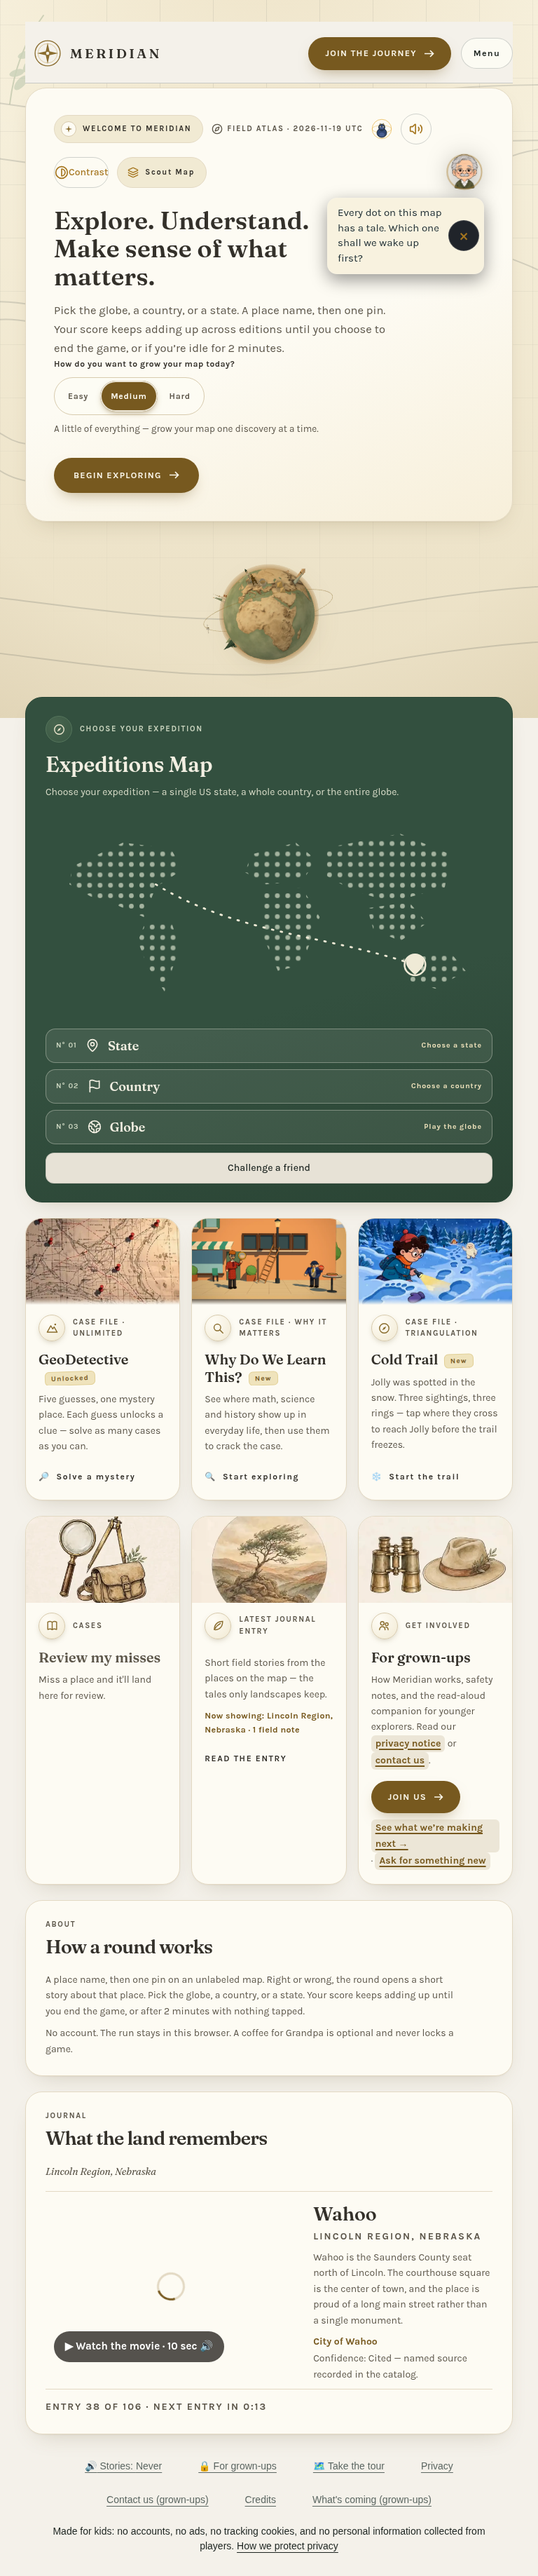
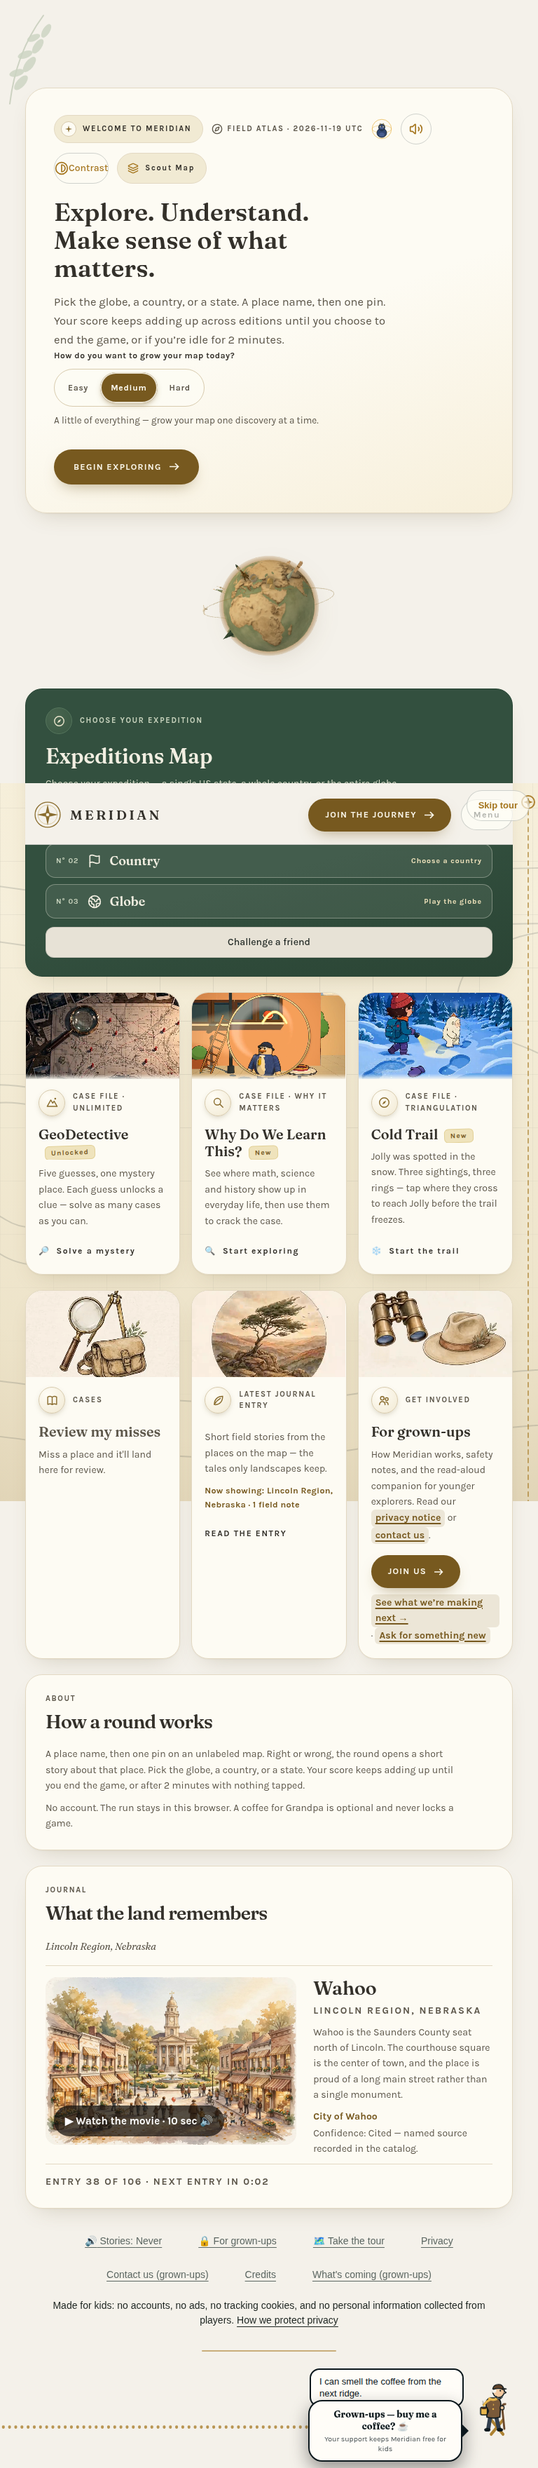
Remove the dotted world map from the map card in the prod mock captures

diff --git a/docs/branch-status/feat-landmark-globe.md b/docs/branch-status/feat-landmark-globe.md
@@ -55,6 +55,14 @@ Captures: `docs/motion-verify/landmark-globe-mockup-1280px.png` (1280 x 900, ful
 - Full-page captures of the staged prod page with the new globe, first-visit overlays dismissed (tour card via its seen flag, read-aloud sheet via its stored "never" pref, Scout toast): `landmark-globe-in-prod-full-1280px.png` (1280 x 3474), `landmark-globe-in-prod-full-768px.png` (768 x 3674), `landmark-globe-in-prod-full-390px.png` (390 x 5992). No injection errors.
 - Observation from the 390 px full page: the phone hero card does not show the mountain illustration that the desktop hero carries; the globe, Expeditions Map card and the sections below all render. Pre-existing prod behaviour, not changed here.
 
+## Addendum 4 — worldmap removed from the map card in the mocks (owner ruling, Nov 19 2026)
+
+- Owner ruling on his annotated desktop screenshot: with the full landmark globe coming, the dotted world-map SVG (`hv5-worldmap`) inside the Expeditions Map card is "just redundant and bloat". Removed from the mocks only; the Colosseum and every other element are untouched (the owner's hold stands for them).
+- Source check: the SVG renders in exactly one place — `src/components/game-app.tsx` (line 5201 on main `cef9af3c`), inside the `.hv5-mapcard` card between the copy and the edition rows, styled by `.home-v5 .hv5-worldmap` in `src/components/home-v5.css`. It renders nowhere else.
+- Staged mock: the staging checkout (main `cef9af3c`) was rebuilt with the SVG and its CSS rule removed and `.hv5-editions` margin-top set to 16 px, then the landmark globe was staged into the hero as before. Measured on the staged page at 1280 / 768 / 390: zero `.hv5-worldmap` elements, copy-to-first-row gap 16 px, badge, label, heading, copy and all three rows intact, horizontal overflow 0, zero injection errors. Card crops read by eye at all three widths: rows sit directly under the copy, no dead gap.
+- Captures re-taken: `landmark-globe-in-prod-full-1280px.png` (1280 x 3642), `landmark-globe-in-prod-full-768px.png` (768 x 3520), `landmark-globe-in-prod-full-390px.png` (390 x 5941), plus the hero-framed `landmark-globe-in-prod-1280px.png` and `landmark-globe-in-prod-390px.png`.
+- Contract: section 3.6 now carries the Stage 2 carry-over — production removes the `hv5-worldmap` SVG from the Expeditions Map card and tightens the card layout to match this approved mock. No production code changed in this addendum.
+
 ## Next step
 
 - Owner reviews the mockup and the captures. Stage 2 (production code in the Home hero) starts only on the owner's approval.

diff --git a/docs/mockups/landmark-globe-contract.md b/docs/mockups/landmark-globe-contract.md
@@ -100,3 +100,5 @@ Pause button removed — owner ruling Nov 19 2026: the globe auto-loops; no play
 | Desktop hero | copy card left, globe right, map card tucked under the globe |
 | Phone frame | 390 px wide, globe zone 260 px |
 | Readout | small fixed corner readout outside the hero, live renderer triangles and draw calls plus landmark totals, refreshed twice a second (changed in Stage 1: new, mockup only) |
+
+Stage 2 production change: remove the hv5-worldmap SVG from the Expeditions Map card and tighten the card layout to match the approved mock (owner ruling Nov 19 2026). In the approved mock the card keeps its badge, label, heading and copy, the State / Country / Globe rows sit 16 px under the copy, and the card's padding rhythm is unchanged.
